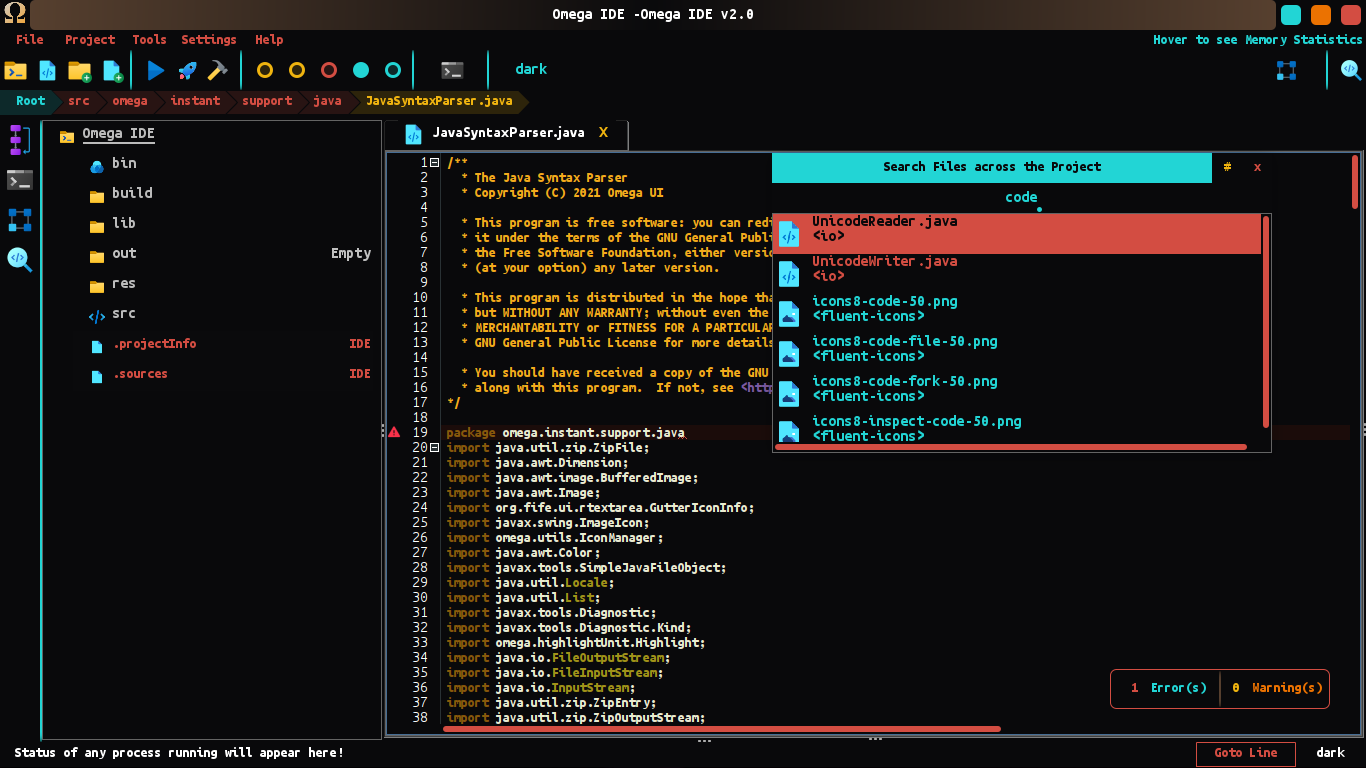
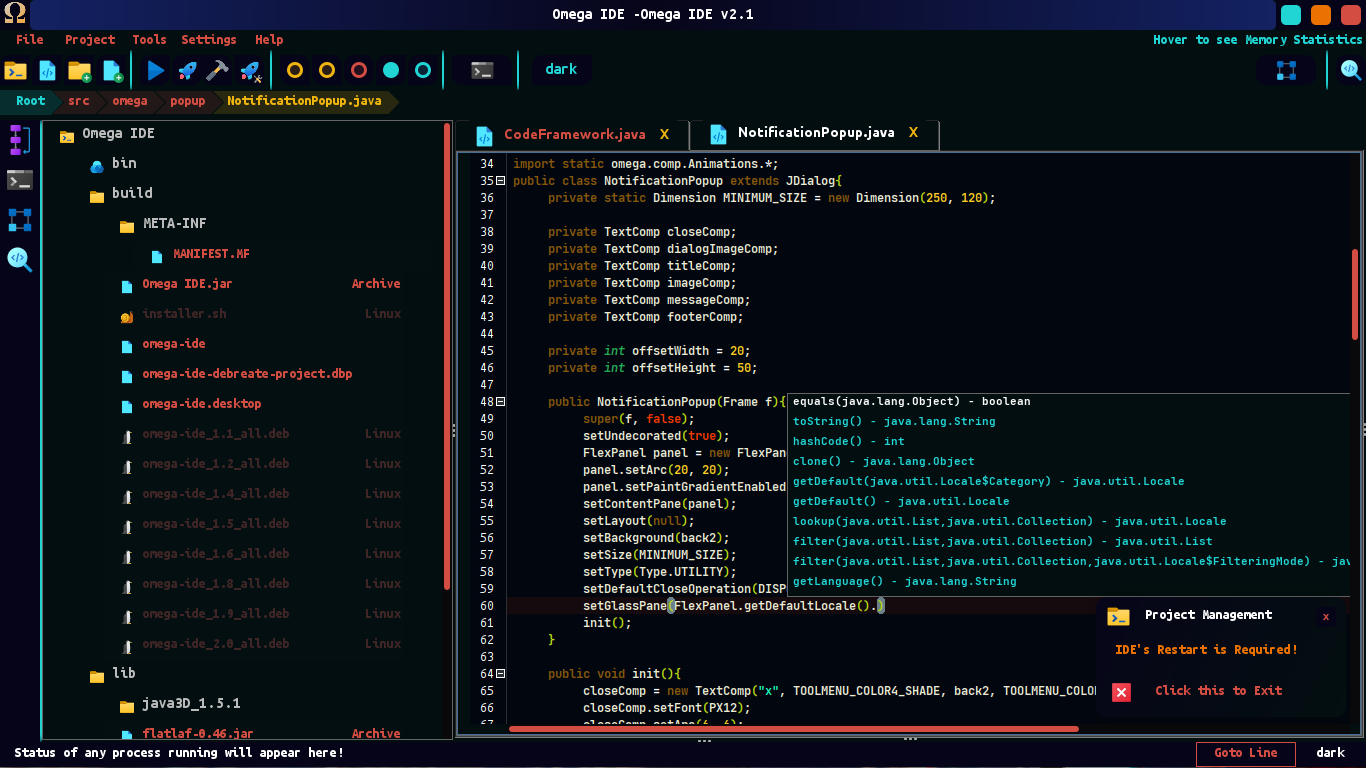
Beta Update!

diff --git a/README.md b/README.md
@@ -1,5 +1,12 @@
 # **Omega IDE**
 
+**Omega IDE v2.1 - The Awesome Beta**
+
+![](/images/beta-light.png)
+
+![](/images/beta-dark.png)
+
+
 **Omega IDE v2.0 - Latest Stable**
 
 ![](/images/light.png)
